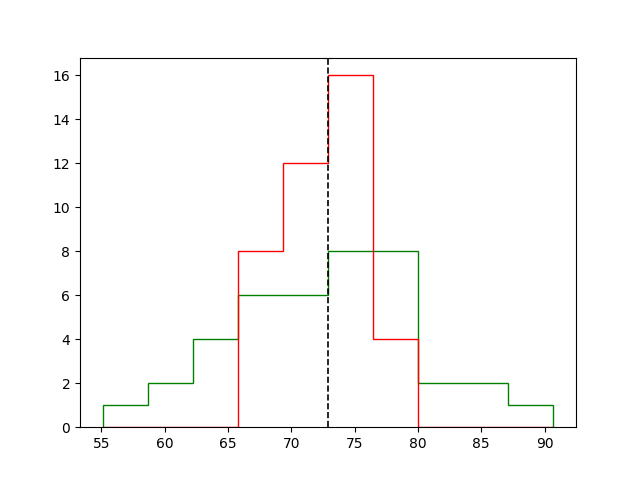
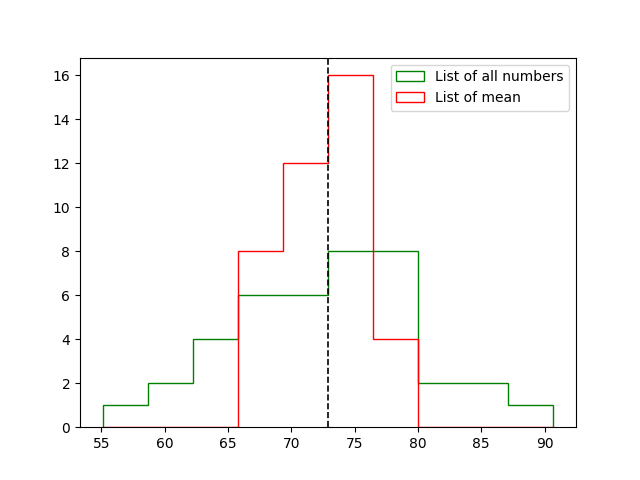
nothing

Changed region(s): [[0.5938, 0.125, 0.875, 0.2188]]

diff --git a/Oppgaver/5.31.py b/Oppgaver/5.31.py
@@ -70,5 +70,6 @@ print('Expected standard deviation is the same as sigma = 7.04/sqrt(4) = 3.52.\n
 bins = np.linspace(55.1, 90.7, 11)
 plt.hist(list_number, bins=bins, histtype='step', edgecolor='green', linewidth=1)
 plt.hist(list_of_mean*4, bins=bins, histtype='step', edgecolor='red', linewidth=1)
+plt.legend(['List of all numbers', 'List of mean'])
 plt.axvline(72.9, color='k', linestyle='dashed', linewidth=1.2)
 plt.show()
